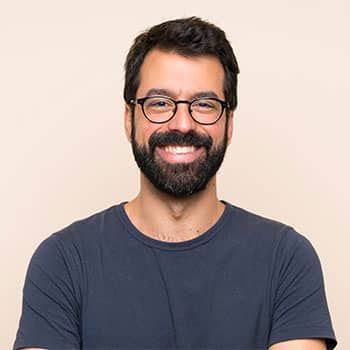
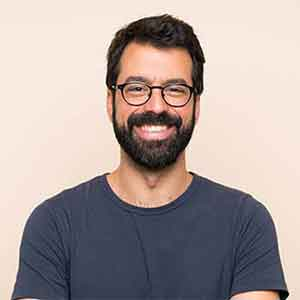
Add additional image files and css updates for teacher images on screens 480px and below

diff --git a/assets/css/style.css b/assets/css/style.css
@@ -705,6 +705,18 @@ footer {
         height: 270px;
     }
 
+    #left-teacher-image {
+        background: url("../images/teacher-left-270px.jpg") no-repeat center center;
+    }
+    
+    #right-teacher-image {
+        background: url("../images/teacher-right-270px.jpg") no-repeat center center;
+    }
+    
+    #center-teacher-image {
+        background: url("../images/teacher-center.jpg-270px") no-repeat center center;
+    }
+
     .interest-registration-form {
         right: 0;
         }
@@ -750,7 +762,6 @@ footer {
 
     #offerings-image {
         background: url("../images/lotus_bg-320X1500.png") no-repeat center center;
-        /* height: 2500px; */
     }
 
     #form {
